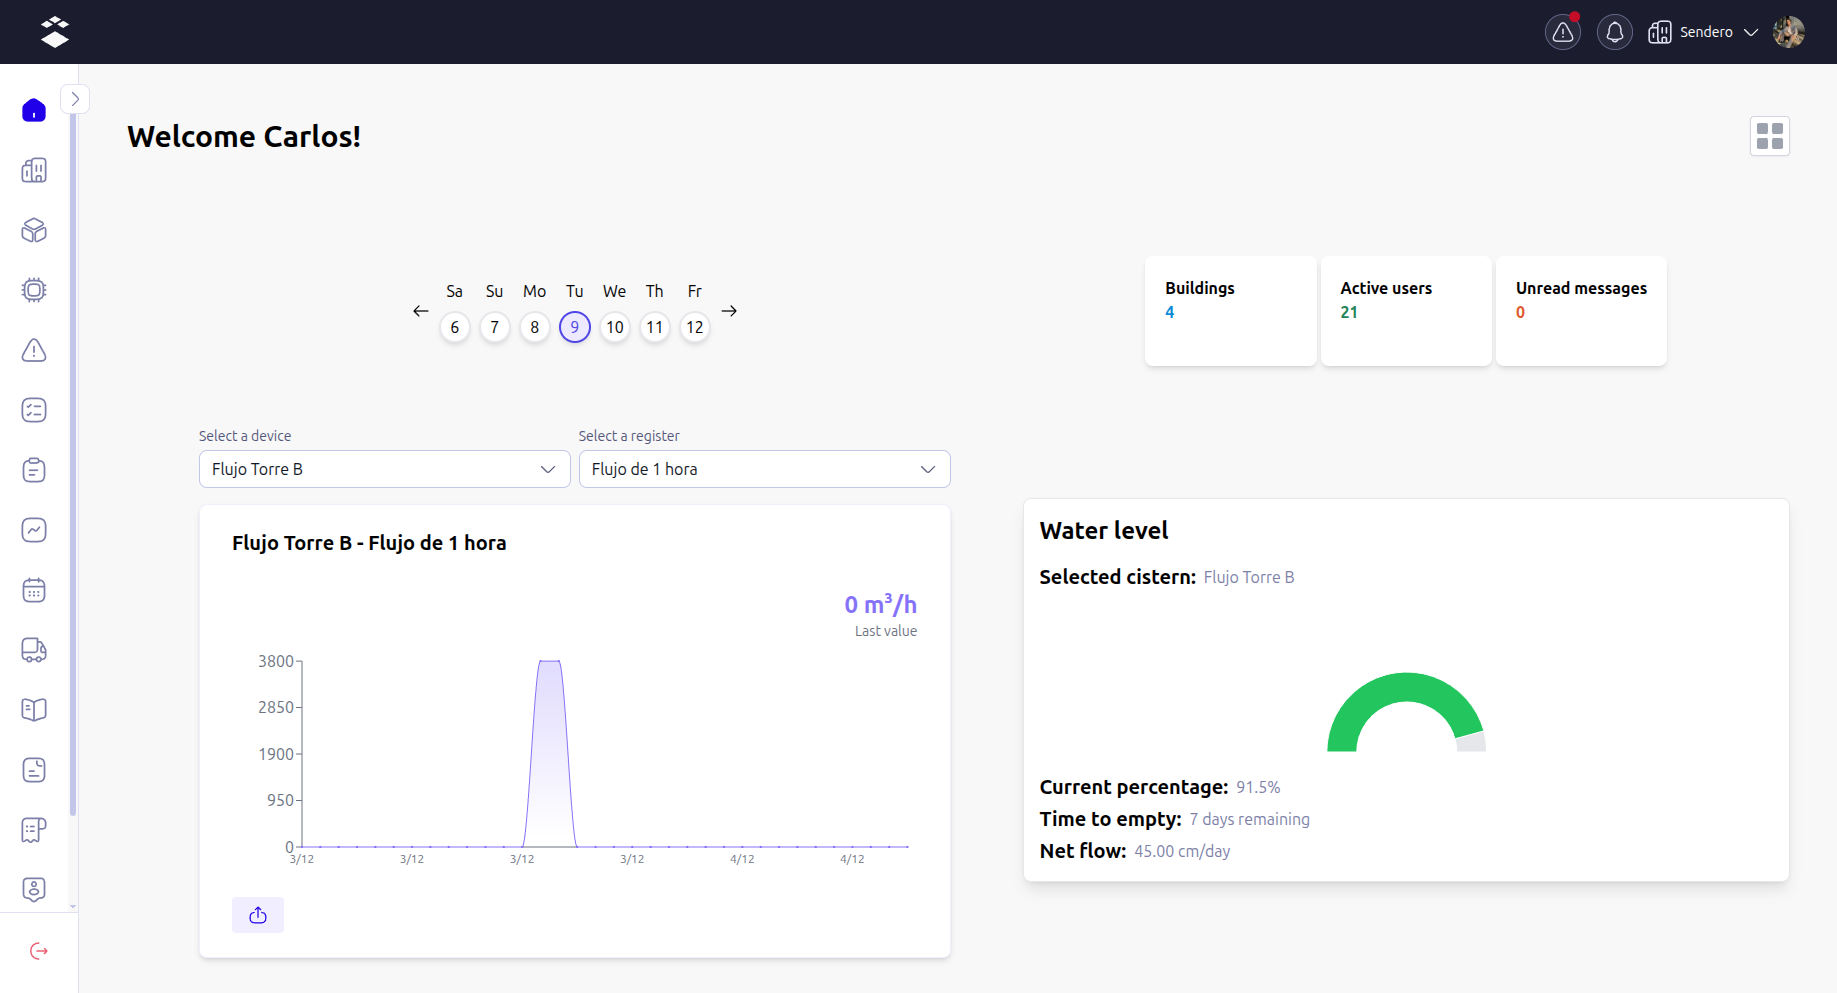
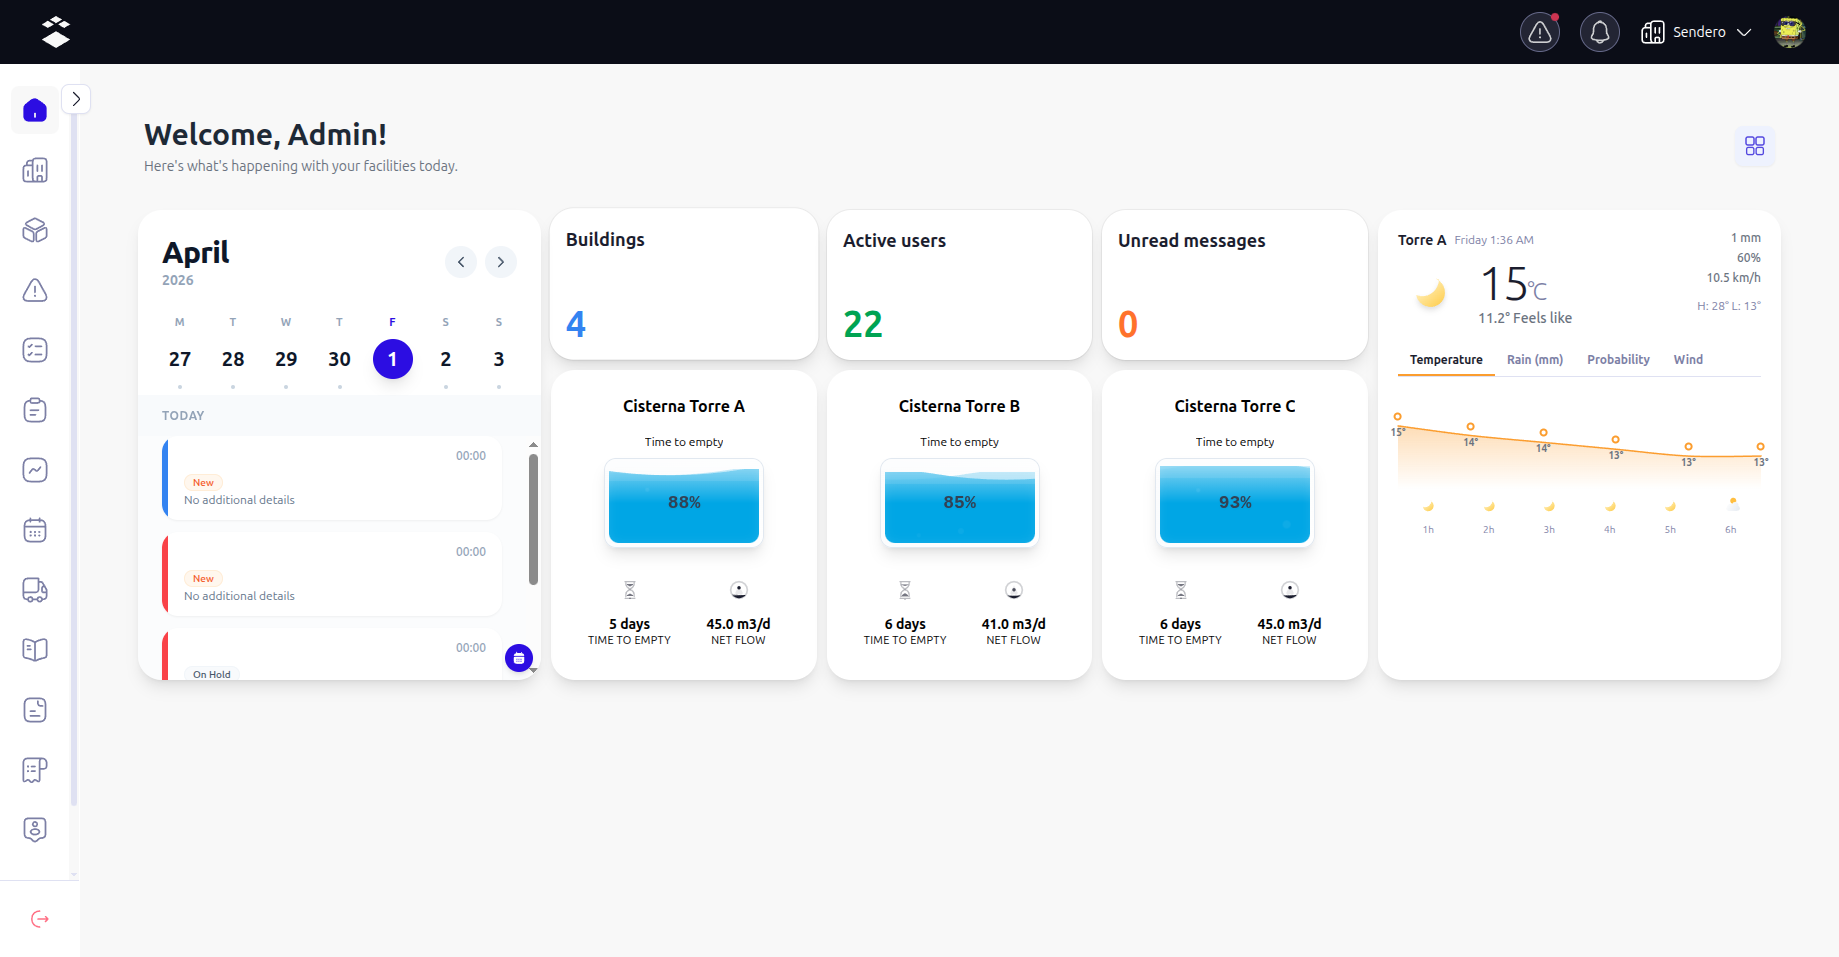
feat: added new project and updated images

diff --git a/constants/projects.ts b/constants/projects.ts
@@ -15,11 +15,21 @@ export const PROJECTS: Project[] = [
     id: "bmsintel",
     title: "BMS Intel",
     description: "All-in-one building management...", // Fallback/Reference
-    tags: ["Next.js", "TypeScript", "NestJS", "PostgreSQL"],
+    tags: ["React", "Next.js", "TypeScript", "NestJS", "PostgreSQL"],
     link: "https://bmsintel.com/",
     appLink: "https://app.bmsintel.com/login",
     githubLink: "#",
     image: "/images/projects/bms-intel.png",
     gradient: "from-blue-500 to-purple-600",
+  },
+  {
+    id: "citycommute",
+    title: "CityCommute",
+    description: "High-fidelity agent-based urban mobility simulation.",
+    tags: ["Python", "Mesa", "React", "Vite", "TypeScript", "FastAPI"],
+    link: "https://citycommute-client.parkalfredojeonghyun.workers.dev",
+    githubLink: "https://github.com/alfredoPark-48/citycommute-client",
+    image: "/images/projects/citycommute.png",
+    gradient: "from-cyan-500 to-blue-600",
   },
 ];

diff --git a/constants/skills.ts b/constants/skills.ts
@@ -63,4 +63,8 @@ export const SKILLS = [
     name: "MongoDB",
     logo: "https://cdn.jsdelivr.net/gh/devicons/devicon@latest/icons/mongodb/mongodb-original.svg",
   },
+  {
+    name: "Vite",
+    logo: "https://cdn.jsdelivr.net/gh/devicons/devicon@latest/icons/vitejs/vitejs-original.svg"
+  }
 ];